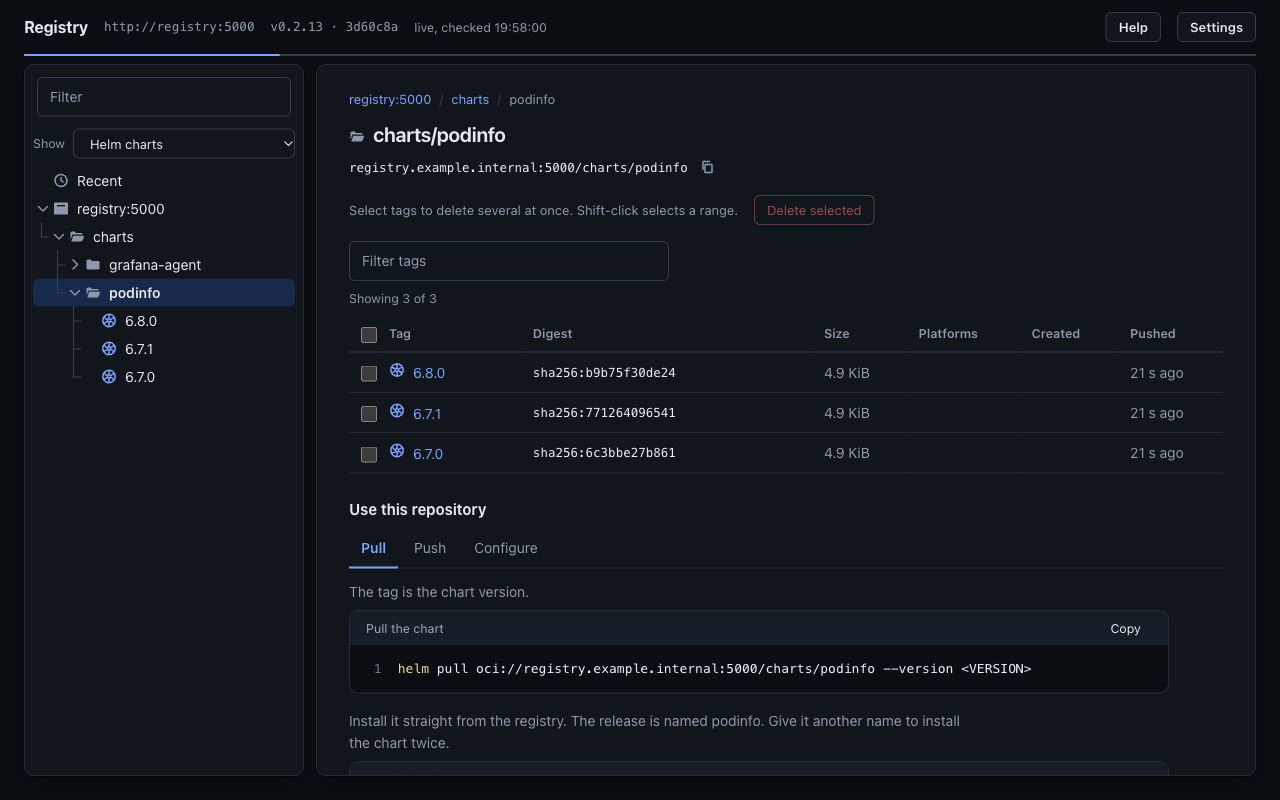
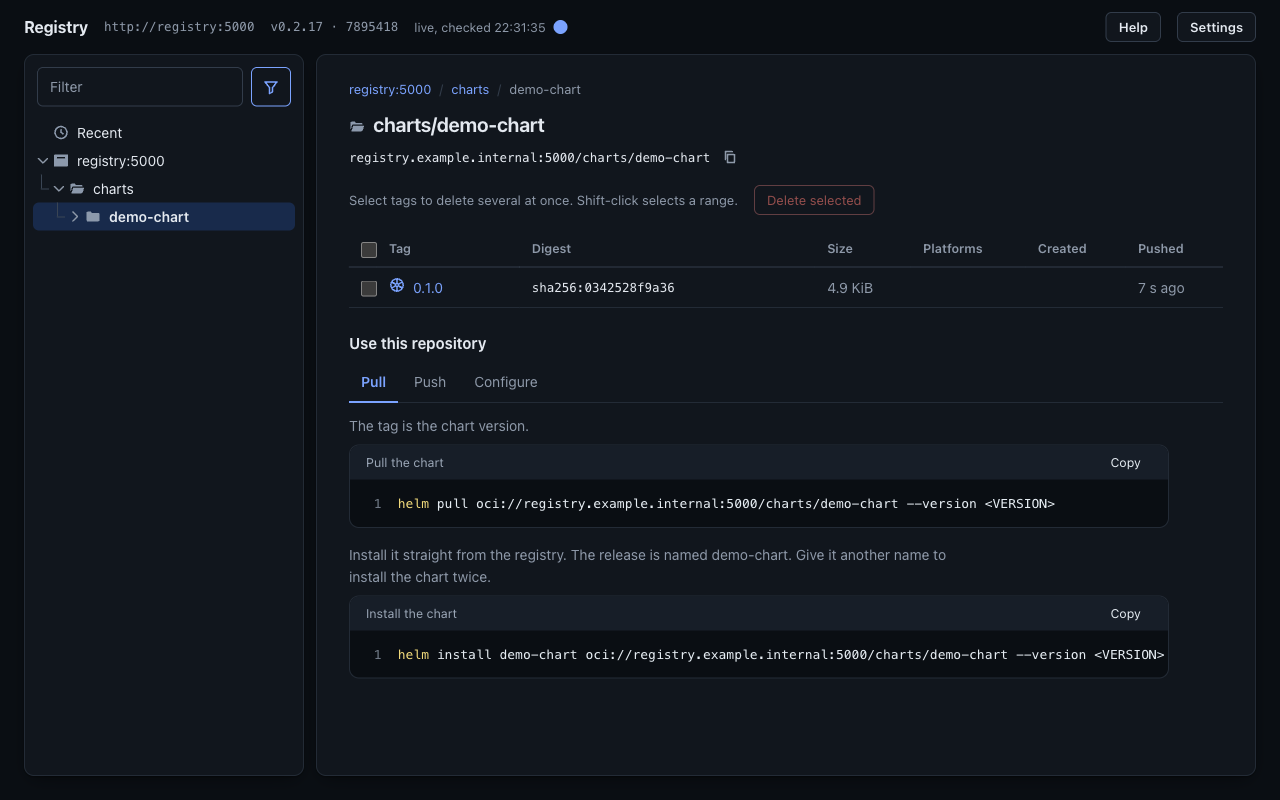
Type filter behind a funnel, Containers without charts, consistent header buttons, release 0.2.17 (#33)
* Line up the type list with Filter and keep the digest line unbroken, release 0.2.17

The type list sat 4px wider than the Filter box on each side, was
shorter, and had its Show label outside the box edge. It now uses the
same margins, height, padding and text size as Filter, with the
chevron select already used in Settings. The label is an aria-label.

The line joining tags on one digest stopped at each cell's padding
edge, so every row border cut it. It now reaches 1px past both edges.

* Offer Containers without the Helm charts, release 0.2.17

Containers appeared only with PyPI configured and still listed chart
repositories, so with charts in the registry there was no way to see
only the images. It is now always offered and hides the repositories
that hold charts, in the tree, the lists and Recent.

* Open the type filter from a funnel beside Filter, release 0.2.17

The type list took a row of its own under Filter. A funnel button
beside Filter now opens the choices in a native popover, which gives
Escape and click-outside closing without code, and turns blue while a
type is picked. Log in and Log out take the same button style as
Help and Settings.

diff --git a/app/static/app.js b/app/static/app.js
@@ -76,6 +76,7 @@ const ICONS = {
     ["", "M2.6 5.7h1.8v1.8H2.6zM4.8 5.7h1.8v1.8H4.8zM7 5.7h1.8v1.8H7zM9.2 5.7H11v1.8H9.2zM4.8 3.5h1.8v1.8H4.8zM7 3.5h1.8v1.8H7zM7 1.3h1.8v1.8H7z"]],
   chip: [["", "M4.5 4.5h7v7h-7z"], ["s", "M6.5 2v2.5M9.5 2v2.5M6.5 11.5V14M9.5 11.5V14M2 6.5h2.5M2 9.5h2.5M11.5 6.5H14M11.5 9.5H14"]],
   copy: [["s", "M5.5 5.5h7v8h-7zM3.5 10.5v-8h7"]],
+  funnel: [["s", "M2 3h12L9.5 8.5V13l-3 1.5v-6z"]],
   sun: [["s", "M8 5.2a2.8 2.8 0 1 0 0 5.6 2.8 2.8 0 0 0 0-5.6zM8 1.5v1.4M8 13.1v1.4M1.5 8h1.4M13.1 8h1.4M3.4 3.4l1 1M11.6 11.6l1 1M12.6 3.4l-1 1M4.4 11.6l-1 1"]],
   moon: [["s", "M13 9.4A5.4 5.4 0 0 1 6.6 3a5.4 5.4 0 1 0 6.4 6.4z"]],
   monitor: [["s", "M2.5 3h11v7.5h-11zM6 13.5h4M8 10.5v3"]],
@@ -247,10 +248,12 @@ let hiddenMemo = new Map();
 const resetHidden = () => { hiddenMemo = new Map(); };
 // A repository of Helm charts, from the poller's list (/api/tagnames) or the kinds of its loaded tags.
 const isHelmRepo = (n) => tree.helm.has(n.path) || n.tagList.some((t) => tagKind(t) === "helm");
-const helmOnly = () => prefs.show === "helm";
-function isHidden(n) { // an empty repository, or a folder that holds only those. With the Helm filter, any repository without charts too.
-  if ((prefs.showEmpty && !helmOnly()) || n.kind !== "node") return false;
-  const hide = (!prefs.showEmpty && isEmptyRepo(n)) || (helmOnly() && !isHelmRepo(n));
+const helmOnly = () => prefs.show === "helm", noHelm = () => prefs.show === "containers";
+// ponytail: a repository that holds charts and images both counts as a chart repository, so Containers hides it
+const wrongKind = (n) => (helmOnly() && !isHelmRepo(n)) || (noHelm() && isHelmRepo(n));
+function isHidden(n) { // an empty repository, or a folder that holds only those. With the Helm or Containers filter, a repository of the other kind too.
+  if ((prefs.showEmpty && !helmOnly() && !noHelm()) || n.kind !== "node") return false;
+  const hide = (!prefs.showEmpty && isEmptyRepo(n)) || wrongKind(n);
   if (!hiddenMemo.has(n.id)) hiddenMemo.set(n.id, (!n.repo || hide) && [...n.kids.values()].every((k) => isHidden(k)));
   return hiddenMemo.get(n.id);
 }
@@ -387,7 +390,7 @@ let rows = []; // visible entries, in order
 function visible() {
   rows = [];
   const filtering = !!tree.filter, ok = filtering ? matchSet() : null;
-  if (tree.indexStale && (filtering || !prefs.showEmpty || helmOnly() || !tree.helmKey)) loadTagIndex();
+  if (tree.indexStale && (filtering || !prefs.showEmpty || helmOnly() || noHelm() || !tree.helmKey)) loadTagIndex();
   if (filtering && !ok.size && showsType("containers")) { rows.push({ info: "No repositories or tags match" + (tree.truncated ? " (tag search covers only the first 5000 tags)" : ""), depth: 0, anc: [], last: true }); pypiRows(); return; }
   const walk = (n, depth, anc, pos, count, last) => {
     rows.push({ n, depth, anc, pos, count, last });
@@ -1065,7 +1068,7 @@ function recentPane() {
   // Container changes come from the poller's history; PyPI uploads carry GitLab's upload time. One list, newest first.
   const items = [];
   if (showsType("containers")) {
-    for (const e of recent.events) if (!helmOnly() || tree.helm.has(repoOf(e.ref))) items.push({ t: e.t, el: () => el("tr", {},
+    for (const e of recent.events) if (tree.helm.has(repoOf(e.ref)) ? !noHelm() : !helmOnly()) items.push({ t: e.t, el: () => el("tr", {},
       el("td", { textContent: ago(e.t), title: new Date(e.t * 1000).toLocaleString() }),
       el("td", {}, el("span", { className: "ico" }, icon("whale", "whale")), el("span", { className: "badge " + e.type, textContent: e.type })),
       el("td", {}, e.type === "deleted" ? code(e.ref) : el("a", { href: "#/repo/" + e.ref, textContent: e.ref })),
@@ -1095,7 +1098,7 @@ function recentPane() {
 }
 function rootPane(n) {
   const repos = tree.names.filter((p) => !isHidden(tree.byPath.get(p))).length, hidden = tree.names.length - repos;
-  const hiddenNote = hidden ? ` (${hidden} ${helmOnly() ? "without Helm charts" : "empty"} hidden)` : "";
+  const hiddenNote = hidden ? ` (${hidden} ${helmOnly() ? "without Helm charts" : noHelm() ? (prefs.showEmpty ? "" : "empty or ") + "with Helm charts" : "empty"} hidden)` : "";
   showMain(crumbs(n), el("h2", { textContent: "Repositories" }), el("p", { className: "mut", textContent: `${repos} repositories${hiddenNote}, ${recent.tags} tags known to the poller.` }),
     ...(visibleKids(n).length ? childrenList(n) : [el("p", { className: "mut", textContent: "The catalog is empty." })]));
 }
@@ -2495,16 +2498,27 @@ async function pypiSync() {
   return pypiSyncing;
 }
 
-// The sidebar's type filter: all, containers, Helm charts or python. Shown when there is more than one type to pick from.
+// The sidebar's type filter: all, containers, Helm charts or python. A funnel beside Filter, shown when there is more than one type
+// to pick from, opens the choices as a popover (Escape and a click outside close it). The funnel takes the accent while it filters.
 function drawTypes() {
-  const box = $("types"), helm = tree.helm.size > 0 || helmOnly();
-  box.hidden = !cfg.pypi && !helm;
-  if (box.hidden) return;
-  const opts = [["all", "All"], ...(cfg.pypi ? [["containers", "Containers"]] : []), ...(helm ? [["helm", "Helm charts"]] : []), ...(cfg.pypi ? [["python", "Python"]] : [])];
-  // a select, not buttons: four types do not fit a narrow sidebar
-  const sel = el("select", { id: "t-types", onchange: () => applyPrefs({ show: sel.value }) }, ...opts.map(([v, text]) => el("option", { value: v, textContent: text, selected: v === prefs.show })));
-  box.replaceChildren(el("label", { htmlFor: "t-types", textContent: "Show" }), sel);
+  const box = $("types"), btn = $("typesbtn"), helm = tree.helm.size > 0 || helmOnly();
+  btn.hidden = !cfg.pypi && !helm;
+  if (btn.hidden) { if (box.matches(":popover-open")) box.hidePopover(); return; }
+  const opts = [["all", "All types"], ["containers", "Containers", () => kindIcon("image")], ...(helm ? [["helm", "Helm charts", () => kindIcon("helm")]] : []), ...(cfg.pypi ? [["python", "Python packages", () => icon("pypi")]] : [])];
+  const label = "Show: " + (opts.find(([v]) => v === prefs.show) || opts[0])[1];
+  btn.classList.toggle("on", prefs.show !== "all");
+  btn.title = label; btn.setAttribute("aria-label", label);
+  if (!btn.firstChild) btn.append(icon("funnel"));
+  box.replaceChildren(el("fieldset", {}, el("legend", { textContent: "Show" }), ...opts.map(([v, text, ic]) => el("label", {},
+    el("input", { type: "radio", name: "show", value: v, checked: v === prefs.show, onchange: () => { box.hidePopover(); applyPrefs({ show: v }); } }),
+    ic ? ic() : el("span", { className: "noicon" }), text))));
 }
+$("types").addEventListener("toggle", (e) => { // under the funnel, kept inside the window
+  if (e.newState !== "open") return;
+  const box = $("types"), r = $("typesbtn").getBoundingClientRect();
+  box.style.top = r.bottom + 6 + "px";
+  box.style.left = Math.max(8, Math.min(r.left, innerWidth - box.offsetWidth - 8)) + "px";
+});
 
 loadPrefs(); applyTheme();
 setWidth(prefs.sidebar, false);
@@ -2517,7 +2531,7 @@ tree.proot = { kind: "proot", id: "proot", name: "PyPI", parent: null, kids: [] 
 tree.byId.set("proot", tree.proot);
 tree.names = [];
 try { cfg = await api("/api/config"); $("reg").textContent = cfg.registry; $("ver").textContent = `v${cfg.version} · ${cfg.revision.slice(0, 7)}`; banner(notice());
-  if (cfg.login) $("who").replaceChildren(...(cfg.user ? [cfg.user, " ", el("a", { href: cfg.logout, textContent: "Log out" })] : [el("a", { href: cfg.login, textContent: "Log in", className: "btn" })]));
+  if (cfg.login) $("who").replaceChildren(...(cfg.user ? [cfg.user, " ", el("a", { href: cfg.logout, textContent: "Log out", className: "btn" })] : [el("a", { href: cfg.login, textContent: "Log in", className: "btn" })]));
 }  catch (e) { banner(e.message, true); }
 expanded.add("root");
 expanded.add("proot");

diff --git a/app/static/style.css b/app/static/style.css
@@ -42,7 +42,7 @@ header #home { font-size:16px; font-weight:700; letter-spacing:-.01em; color:var
 header #reg, header #ver { color:var(--mut); font-weight:400; font-family:var(--mono); font-size:12.5px; }
 header #live { min-width:0; overflow:hidden; text-overflow:ellipsis; white-space:nowrap; color:var(--mut); font-weight:400; font-size:12.5px; }
 header #menu { display:none; }
-header #who { margin-left:auto; color:var(--mut); font-weight:400; font-size:12.5px; } header #who a.btn { padding:3px 10px; border:1px solid var(--acc); border-radius:6px; font-weight:600; }
+header #who { margin-left:auto; color:var(--mut); font-weight:400; font-size:12.5px; } header #who a.btn { display:inline-flex; align-items:center; height:30px; margin-left:var(--s2); padding:0 var(--s3); border:1px solid var(--line2); border-radius:var(--r1); background:var(--panel); color:var(--fg); font-size:13px; font-weight:600; text-decoration:none; } header #who a.btn:hover { background:var(--hover); }
 /* the time left to the next refresh as a pie: the accent part shrinks back to the top and the refresh comes when it is gone */
 #tick { flex:none; width:14px; height:14px; margin-left:calc(var(--s2) - var(--s4)); border-radius:50%; background:conic-gradient(var(--line2) calc((1 - var(--p, 0)) * 1turn), var(--acc) 0); }
 #tick[hidden] { display:none; }
@@ -63,7 +63,7 @@ input::placeholder { color:var(--mut); }
 #app { flex:1; min-height:0; display:flex; padding:0 var(--gut) var(--gut); }
 #side, #main { background:var(--panel); border:1px solid var(--line); border-radius:var(--r2); box-shadow:var(--shadow); }
 #side { width:var(--sw); flex:none; display:flex; flex-direction:column; min-height:0; overflow:hidden; }
-#filter { margin:var(--s3); }
+#findbar { display:flex; align-items:center; gap:var(--s2); margin:var(--s3); } #filter { flex:1; min-width:0; }
 #tree { flex:1; overflow:auto; padding:0 var(--s2) var(--s4); }
 #grip { flex:none; width:var(--s3); height:auto; padding:0; border:0; border-radius:0; background:none; cursor:col-resize; position:relative; }
 #grip:hover:not(:disabled) { background:none; } #grip:active:not(:disabled) { transform:none; }
@@ -245,7 +245,7 @@ tr.pickable.on > td { background:var(--acc-soft); }
 td.dcell { position:relative; } .dcell code { margin-right:22px; } /* room for the line between the digest and its copy icon */
 .dlink { display:none; position:absolute; top:0; bottom:0; left:calc(var(--s3) + 19ch + 8px); width:10px; font:12.5px var(--mono); } /* 19ch: the short digest */
 tr[data-link] .dlink { display:block; }
-.dlink::before { content:""; position:absolute; left:4px; top:0; bottom:0; width:2px; background:var(--acc); }
+.dlink::before { content:""; position:absolute; left:4px; top:-1px; bottom:-1px; width:2px; background:var(--acc); }
 tr[data-link=start] .dlink::before { top:50%; } tr[data-link=end] .dlink::before { bottom:50%; }
 .dlink::after { content:""; position:absolute; left:0; top:50%; width:6px; height:6px; margin-top:-5px; border:2px solid var(--acc); border-radius:50%; background:var(--panel); }
 tr:hover .dlink::after { background:var(--hover); } tr.pickable.on .dlink::after { background:var(--acc-soft); }
@@ -289,8 +289,12 @@ menu { display:flex; gap:var(--s2); justify-content:flex-end; padding:0; margin:
 @media (prefers-reduced-motion: reduce) { .row.flash { animation:none; } }
 
 /* PyPI source */
-#types[hidden] { display:none; }
-#types { display:flex; align-items:center; gap:var(--s2); padding:0 var(--s2) var(--s2); } #types label { font-size:12.5px; color:var(--mut); } #types select { flex:1; min-width:0; }
+/* the type filter: a funnel beside Filter opens the choices, placed under it by drawTypes */
+#typesbtn { align-self:stretch; width:40px; height:auto; } #typesbtn[hidden] { display:none; } #typesbtn.on { color:var(--acc); border-color:var(--acc); }
+#types { position:fixed; inset:auto; margin:0; min-width:200px; padding:var(--s3); border:1px solid var(--line2); border-radius:var(--r2); background:var(--panel); color:var(--fg); box-shadow:var(--shadow); }
+#types fieldset { border:0; margin:0; padding:0; } #types legend { padding:0 0 var(--s2); font-size:12.5px; color:var(--mut); }
+#types label { display:flex; align-items:center; gap:var(--s2); padding:var(--s2); border-radius:var(--r1); cursor:pointer; } #types label:hover { background:var(--hover); }
+#types input { margin:0; accent-color:var(--acc); } #types .i { margin:0; } #types .noicon { width:16px; flex:none; }
 .stats { display:flex; flex-wrap:wrap; gap:var(--s2); margin:calc(var(--s2) * -1) 0 var(--s4); }
 .stat { padding:2px var(--s2); border:1px solid var(--line); border-radius:var(--r1); color:var(--mut); font-size:12.5px; }
 .panetabs { flex-wrap:wrap; border-bottom:1px solid var(--line); margin-bottom:var(--s4); }

diff --git a/app/static/index.html b/app/static/index.html
@@ -20,8 +20,11 @@
 <div id="banner" hidden></div>
 <div id="app">
   <aside id="side">
-    <input id="filter" type="search" placeholder="Filter" aria-label="Filter the tree" autocomplete="off" spellcheck="false">
-    <div id="types" hidden></div>
+    <div id="findbar">
+      <input id="filter" type="search" placeholder="Filter" aria-label="Filter the tree" autocomplete="off" spellcheck="false">
+      <button id="typesbtn" class="iconbtn" type="button" popovertarget="types" hidden></button>
+    </div>
+    <div id="types" popover></div>
     <div id="tree" role="tree" aria-label="Repositories"></div>
   </aside>
   <button id="grip" type="button" aria-label="Resize the tree"></button>

diff --git a/README.md b/README.md
@@ -106,7 +106,7 @@ Add each with `-f`, after `compose.yml` (or after `compose.ui.yml` for a registr
 ## Behaviour
 
 - **Recent** is when the UI saw a change: the registry API has no push times, and pushes before the UI started are not in it. PyPI upload times come from GitLab.
-- **Helm filter.** Once the poller has read a Helm chart, the sidebar's Show list offers Helm charts: only the repositories that hold charts, in the tree, the lists and Recent.
+- **Helm filter.** Once the poller has read a Helm chart, the funnel beside the sidebar's Filter offers Helm charts (only the repositories that hold charts, in the tree, the lists and Recent) and Containers (all the others). A repository with both charts and images counts as a chart repository.
 - **Copy** mounts blobs and writes the original manifest bytes, so the digest does not change. **Move** is copy, check, then delete.
 - **Delete** is by digest, so every tag on that digest goes, and the dialog lists them. A digest that a tagged index uses as a platform is refused (409).
 - **Delete selected** deletes up to 100 tags of one repository at once: tick them in the tag list (the header box ticks every row shown), then confirm. Each digest goes through the single delete with its checks, an index before its own children. The dialog names the tags that go only because they share a digest with a ticked one, and the result lists each tag as deleted, skipped (already gone) or failed with the reason. Shift-click selects every row shown between the last one clicked and this one, and a click on a row outside its links ticks it too. Read-only mode and a missing login hide the checkboxes, and the API refuses the call as it does a single delete.

diff --git a/RELEASE_NOTES.md b/RELEASE_NOTES.md
@@ -4,6 +4,13 @@ registry-lite-ui is a web UI for a plain `registry:2` that browses, copies, move
 
 `podman-compose up -d` with `compose.yml` (registry and UI), or `podman-compose -f compose.ui.yml up -d` with `REGISTRY_URL` set for a registry that already runs. `docker compose` works the same way. Pin `UI_IMAGE` to a version or a digest in your `.env`.
 
+## Changes in 0.2.17
+
+- The type filter moves from its own row under Filter to a funnel button beside it, which opens the choices (All types, Containers, Helm charts, Python packages) with the same icons as the tree. The funnel turns blue while it filters. Escape or a click outside closes it.
+- Log in and Log out are buttons with the same size and style as Help and Settings.
+- The line that joins tags on one digest runs unbroken through the row borders.
+- The type filter always offers Containers, which now leaves out the repositories that hold Helm charts. Before, it appeared only with PyPI configured and still listed the charts. Python is now "Python packages".
+
 ## Changes in 0.2.16
 
 - The countdown pie empties clockwise, like a clock, instead of anticlockwise.
